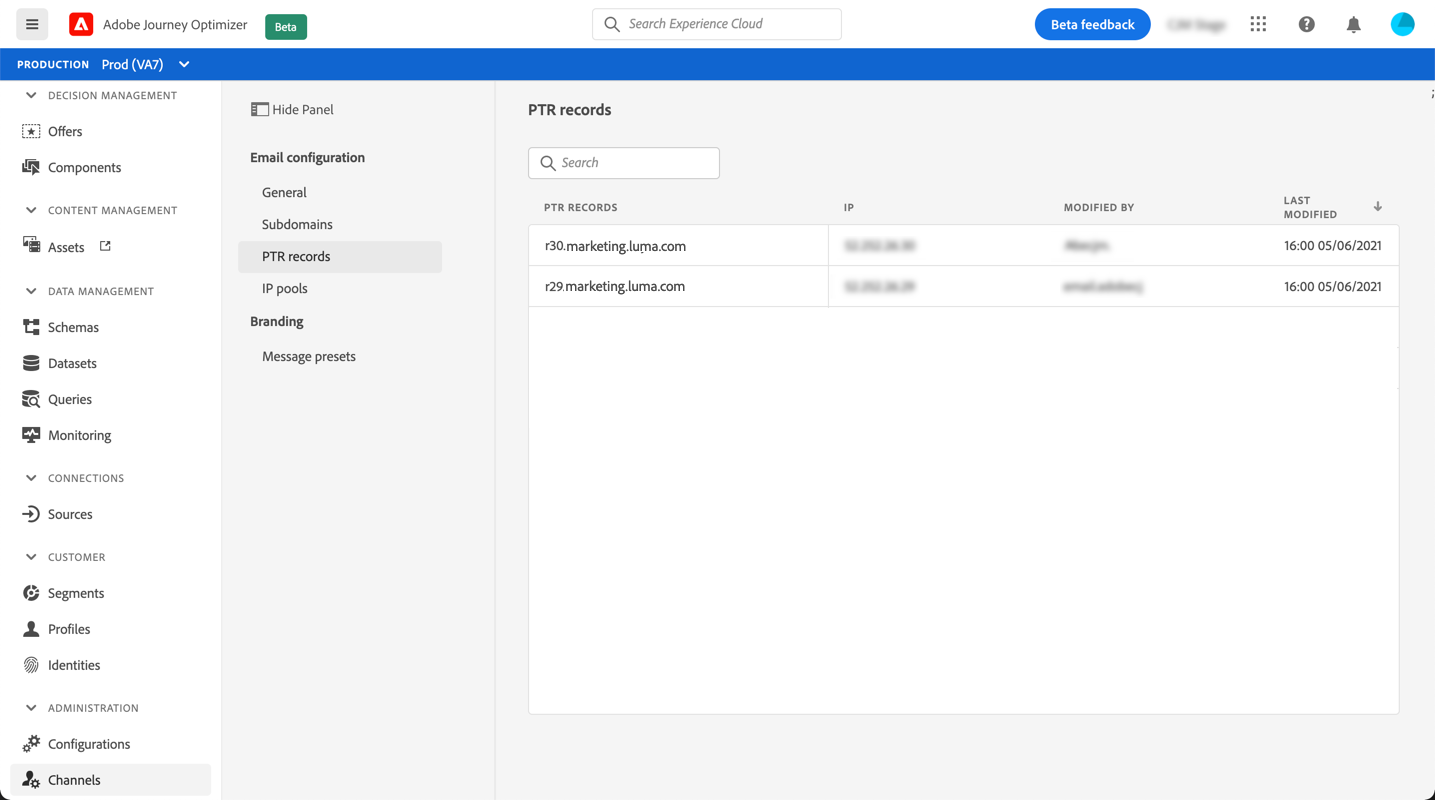
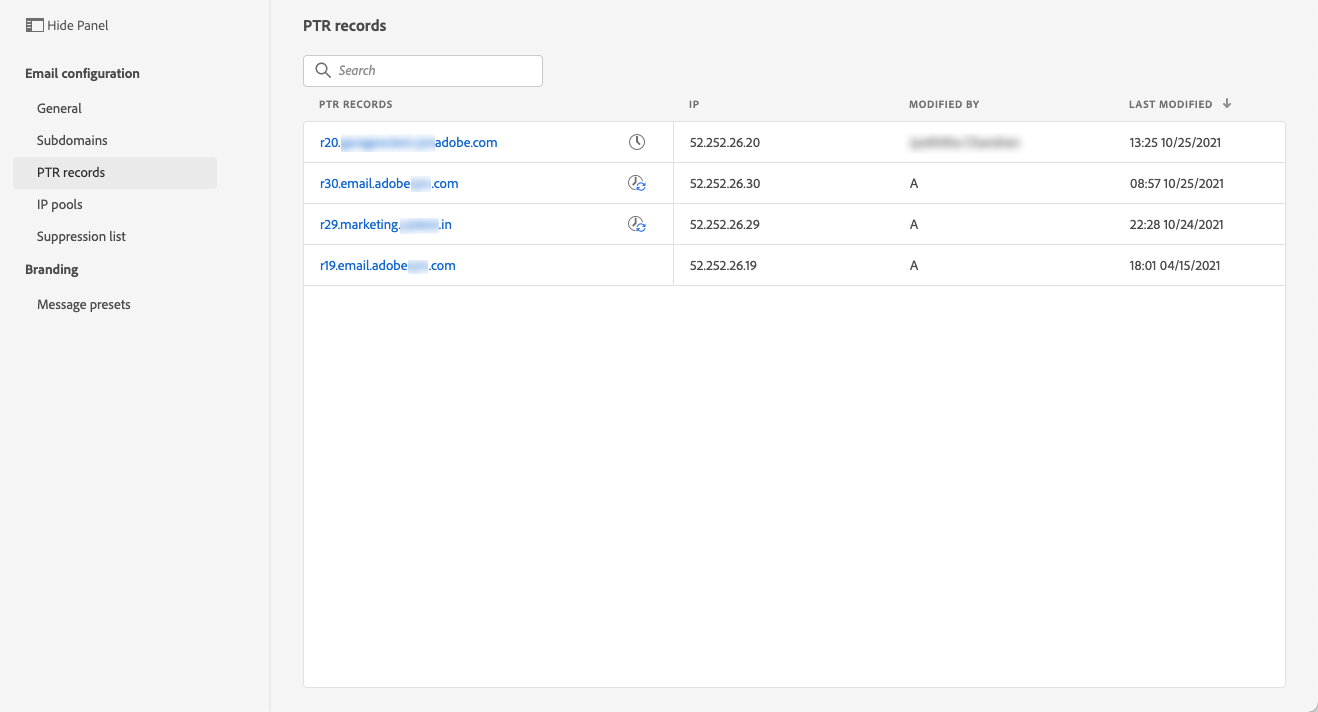
PTR records updates

diff --git a/help/using/configuration/ptr-records.md b/help/using/configuration/ptr-records.md
@@ -27,7 +27,7 @@ With PTR records, receiving mail servers can check the authenticity of sending m
 
 ## Access your subdomains' PTR records
 
-Once a subdomain is delegated in Customer Jourrney Management, a PTR record is automatically created and associated with this subdomain. You can access it from the **[!UICONTROL Channels]** `>` **[!UICONTROL PTR records]** menu.
+Once a subdomain is delegated in Customer Journey Management, a PTR record is automatically created and associated with this subdomain. You can access it from the **[!UICONTROL Channels]** > **[!UICONTROL Email configuration]** > **[!UICONTROL PTR records]** menu.
 
 ![](../assets/ptr-records.png)
 
@@ -45,7 +45,11 @@ You can modify PTR records to edit the subdomain associated to an IP address.
 
 1. From the list, click a PTR record name to open it.
 
+    ![](../assets/ptr-record-select.png)
+
 1. Edit the subdomain as desired.
+
+    ![](../assets/ptr-record-subdomain.png)
 
     >[!NOTE]
     >
@@ -55,6 +59,45 @@ You can modify PTR records to edit the subdomain associated to an IP address.
 
 An **[!UICONTROL Updating]** icon displays next to the name of the PTR record in the list.
 
-To check the PTR record update details, click the **[!UICONTROL More actions]** button and select **[!UICONTROL Recent updates]**.
+![](../assets/ptr-record-updating.png)
 
-You can see information such as the update status with the approximate remaining time before completion and the requested changes.
+To check the PTR record update details, click the **[!UICONTROL Updating]** or **[!UICONTROL Recent updates]** icon.
+
+![](../assets/ptr-record-recent-update.png)
+
+You can see information such as the update status and the requested changes.
+
+![](../assets/ptr-record-updates.png)
+
+### Update statuses
+
+A PTR record update can have the following statuses:
+
+* **[!UICONTROL Processing]**: The PTR record update has been submitted and is going through a verification process.
+* **[!UICONTROL Success]**: The updated PTR record has been verified and the new subdomain is now associated with the IP address.
+* **[!UICONTROL Failed]**: One or several checks have failed during the PTR record update verification.
+
+**Processing**
+
+Several deliverability checks will be performed to verify that the new subdomain to associate with the IP address is valid. <!--The processing time is around **48h-72h**, and can take up to **7-10 days**. Learn more on the checks performed during the validation cycle in [this section](#create-message-preset).-->
+
+>[!NOTE]
+>
+>You cannot modify a PTR record while update is in progress. You can still click its name, but the **[!UICONTROL Subdomain]** field is greyed out. The changes will not be reflected until the update is successful.
+
+During the validation process, the old subdomain is still associated with the IP address.
+
+**Success**
+
+Once the validation process is successful, the new subdomain is automatically associated with the IP address.
+
+**Failed**
+
+If the validation process fails, the older PTR record is displayed. The valid subdomain that was previously associated with the IP address remains unchanged.
+
+When the update fails, the PTR record becomes editable again. You can then click its name and update the subdomain again. <!--Learn more on the possible failure reasons in [this section](#monitor-message-presets).-->
+
+The possible update error types are as follows:
+* Failure to create a new forward DNS for PTR record
+* Failure to update the record
+* Failure to re-onboard the affinities

diff --git a/help/using/configuration/message-presets.md b/help/using/configuration/message-presets.md
@@ -25,7 +25,7 @@ Once message presets have been configured, you be able to select them when creat
 
 To create a message preset, follow these steps:
 
-1. Access the **[!UICONTROL Channels]** > **[!UICONTROL Message presets]** menu, then click **[!UICONTROL Create Message preset]**.
+1. Access the **[!UICONTROL Channels]** > **[!UICONTROL Branding]** > **[!UICONTROL Message presets]** menu, then click **[!UICONTROL Create Message preset]**.
 
     ![](../assets/preset-create.png)
 
